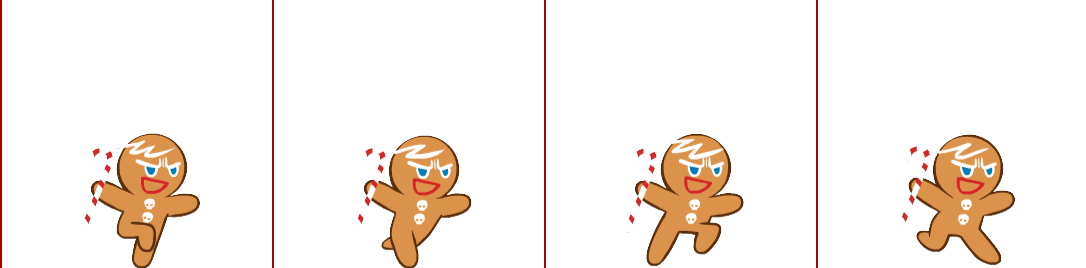
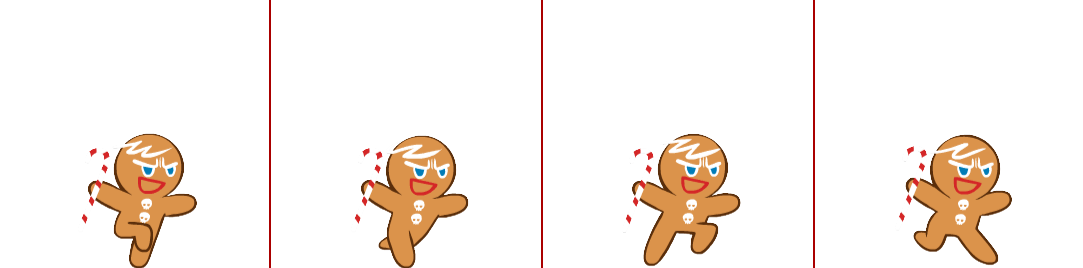
스페이스바/아래 방향키 동작 처리 추가
스페이스바 -> 점프
아래 방향키 -> 슬라이딩
(+) 달리기 이미지 일부 수정

diff --git a/cookie_run/cookie_run.py b/cookie_run/cookie_run.py
@@ -34,36 +34,43 @@ class Cookie:
     def __init__(self):
         self.frame = 0
         self.jump_count = 0
-        self.x = 200
+        self.x = 170
         self.y = 180
         self.image_running = load_image('brave_cookie_running.png') # 칸 당 가로: 270  세로: 268
         self.image_sliding = load_image('brave_cookie_sliding.png')  # 칸 당 가로: 269  세로: 268
         self.image_jump = load_image('brave_cookie_jump.png') # 가로 270 세로 268
-        self.state = 1 # 0 - 달리기 1 - 점프 2- 슬라이딩 3 - 캐릭터 사망
+        self.state = 0 # 0 - 달리기, 1 - 점프, 2- 슬라이딩, 3 - 캐릭터 사망
     def draw(self):
-        if self.state == 0:
-            self.image_running.clip_draw(1 + self.frame + 270*self.frame, 0, 270, 268, self.x, self.y, 200, 200)
-        if self.state == 2:
-            self.image_sliding.clip_draw( self.frame + 269*self.frame, 0, 269, 268, self.x, self.y, 200, 200)
-        if self.state == 1:
-            self.image_jump.clip_draw( self.frame + 270*self.frame, 0, 265, 268, self.x, self.y, 200, 200)
+        if self.state == 0: # 달리기
+            self.image_running.clip_draw(self.frame + 2 + 270*self.frame, 0, 260, 268, self.x, self.y, 200, 200)
+        if self.state == 1: # 점프
+            self.image_jump.clip_draw(self.frame + 270*self.frame, 0, 265, 268, self.x, self.y, 200, 200)
+        if self.state == 2: # 슬라이딩
+            self.image_sliding.clip_draw(self.frame + 270*self.frame, 0, 265, 268, self.x, self.y, 200, 200)
     def update(self):
-        if self.state == 0:
+        if self.state == 0: # 달리기
             self.frame = (self.frame + 1) % 4
-        if self.state == 1:
+        if self.state == 1: # 점프
             self.frame = (self.frame + 1) % 4
-        if self.state == 2:
+        if self.state == 2: # 슬라이딩
             self.frame = (self.frame + 1) % 2
         pass
 
 def handle_events():
     global running
+    global cookie
     events = get_events()
     for event in events:
         if event.type == SDL_QUIT:
             running = False
         elif event.type == SDL_KEYDOWN and event.key == SDLK_ESCAPE:
             running = False
+        elif event.type == SDL_KEYDOWN and event.key == SDLK_SPACE:
+            cookie.state = 1  # 점프
+        elif event.type == SDL_KEYDOWN and event.key == SDLK_DOWN:
+            cookie.state = 2 # 슬라이딩
+        elif event.type == SDL_KEYUP and event.key == SDLK_DOWN:
+            cookie.state = 0 # 달리기
 
 def reset_world():
     global running
